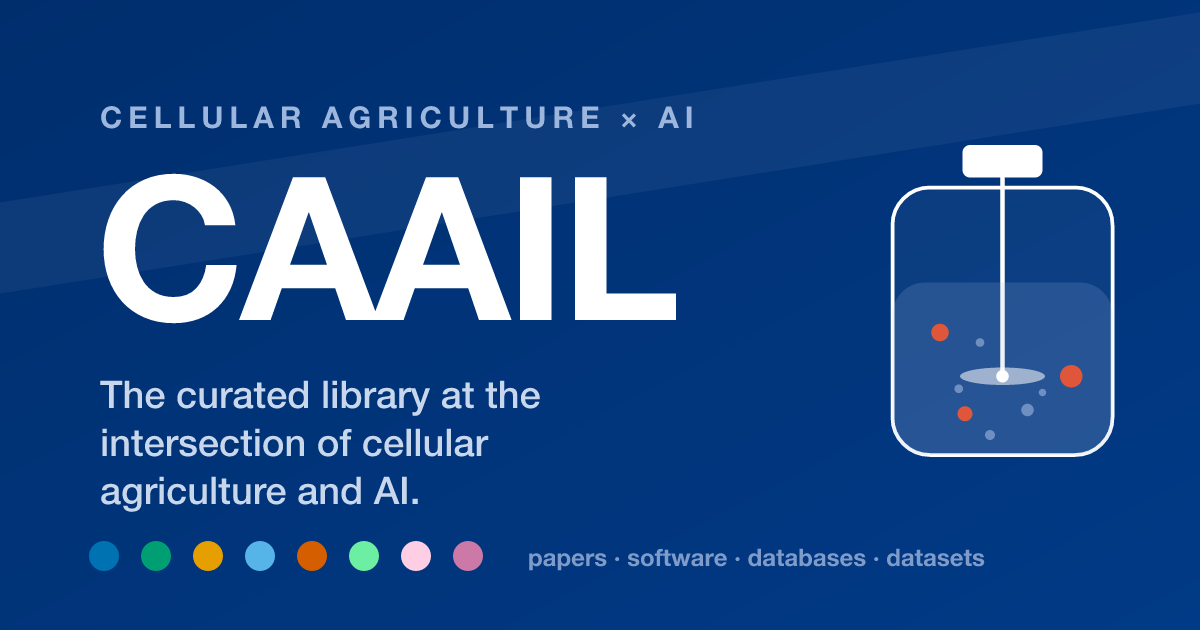
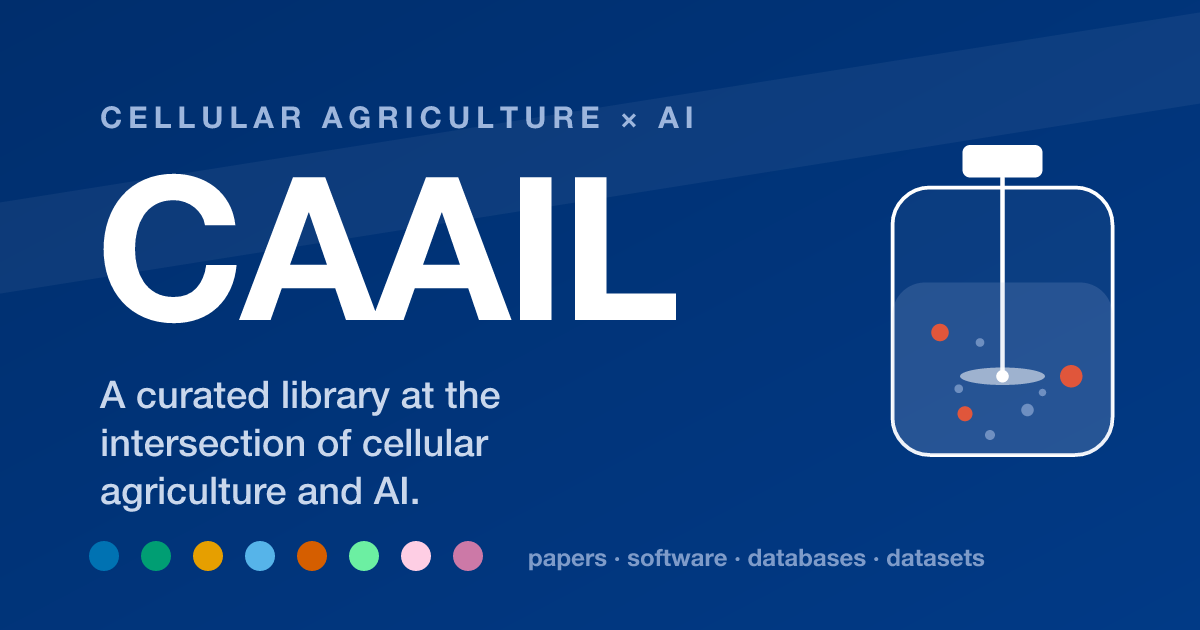
docs(site): match the meta text and social card to the hero's wording
The hero calls CAAIL "a curated library at the intersection of cellular
agriculture and AI". The homepage meta description, the site-wide
default description, the web manifest, the favicon script and the
social card still said "The curated library", and the caail-contribute
skill said "the curated library of AI/ML work". All now say "a curated
library", and og.png is regenerated from its script.

Refs tucca-cellag/caail-planning#577

Changed region(s): [[0.0617, 0.6032, 0.4625, 0.6635]]

diff --git a/plugin-contribute/skills/caail-contribute/SKILL.md b/plugin-contribute/skills/caail-contribute/SKILL.md
@@ -1,6 +1,6 @@
 ---
 name: caail-contribute
-description: Suggest a paper, software tool, dataset or database back to CAAIL, the curated library of AI/ML work in cellular agriculture, when it is not already indexed there. Use when the user is reading, citing, summarising or evaluating a specific cell-ag or cultivated-meat resource and it turns out CAAIL does not hold it; also use when the user asks how to contribute to CAAIL, suggest a paper to CAAIL, or report something CAAIL is missing.
+description: Suggest a paper, software tool, dataset or database back to CAAIL, a curated library of AI/ML work in cellular agriculture, when it is not already indexed there. Use when the user is reading, citing, summarising or evaluating a specific cell-ag or cultivated-meat resource and it turns out CAAIL does not hold it; also use when the user asks how to contribute to CAAIL, suggest a paper to CAAIL, or report something CAAIL is missing.
 disallowed-tools: Bash, Write, Edit, NotebookEdit, Agent
 ---
 
